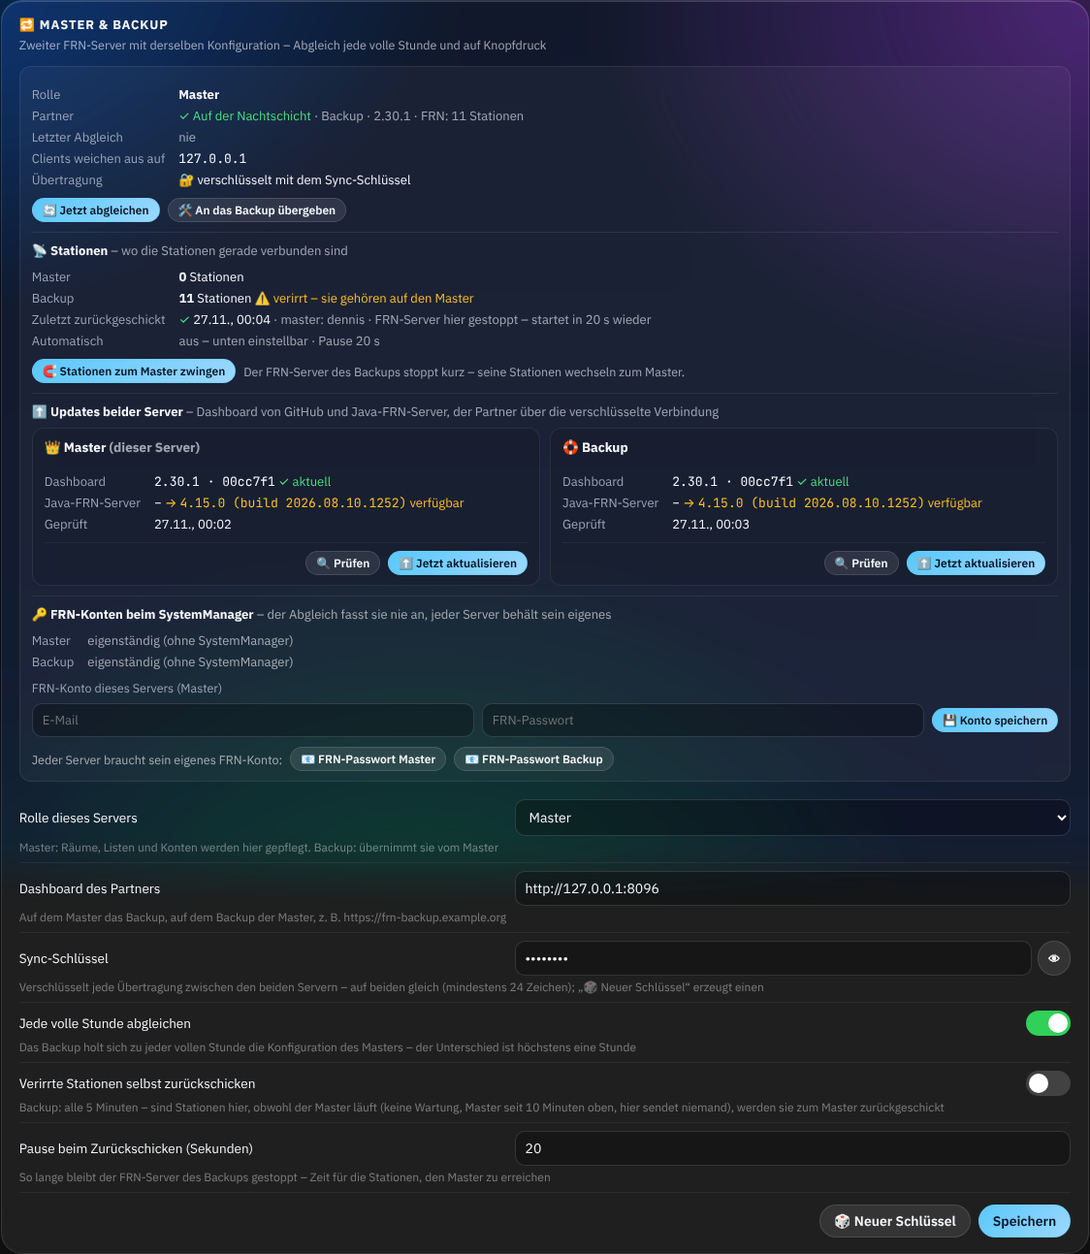
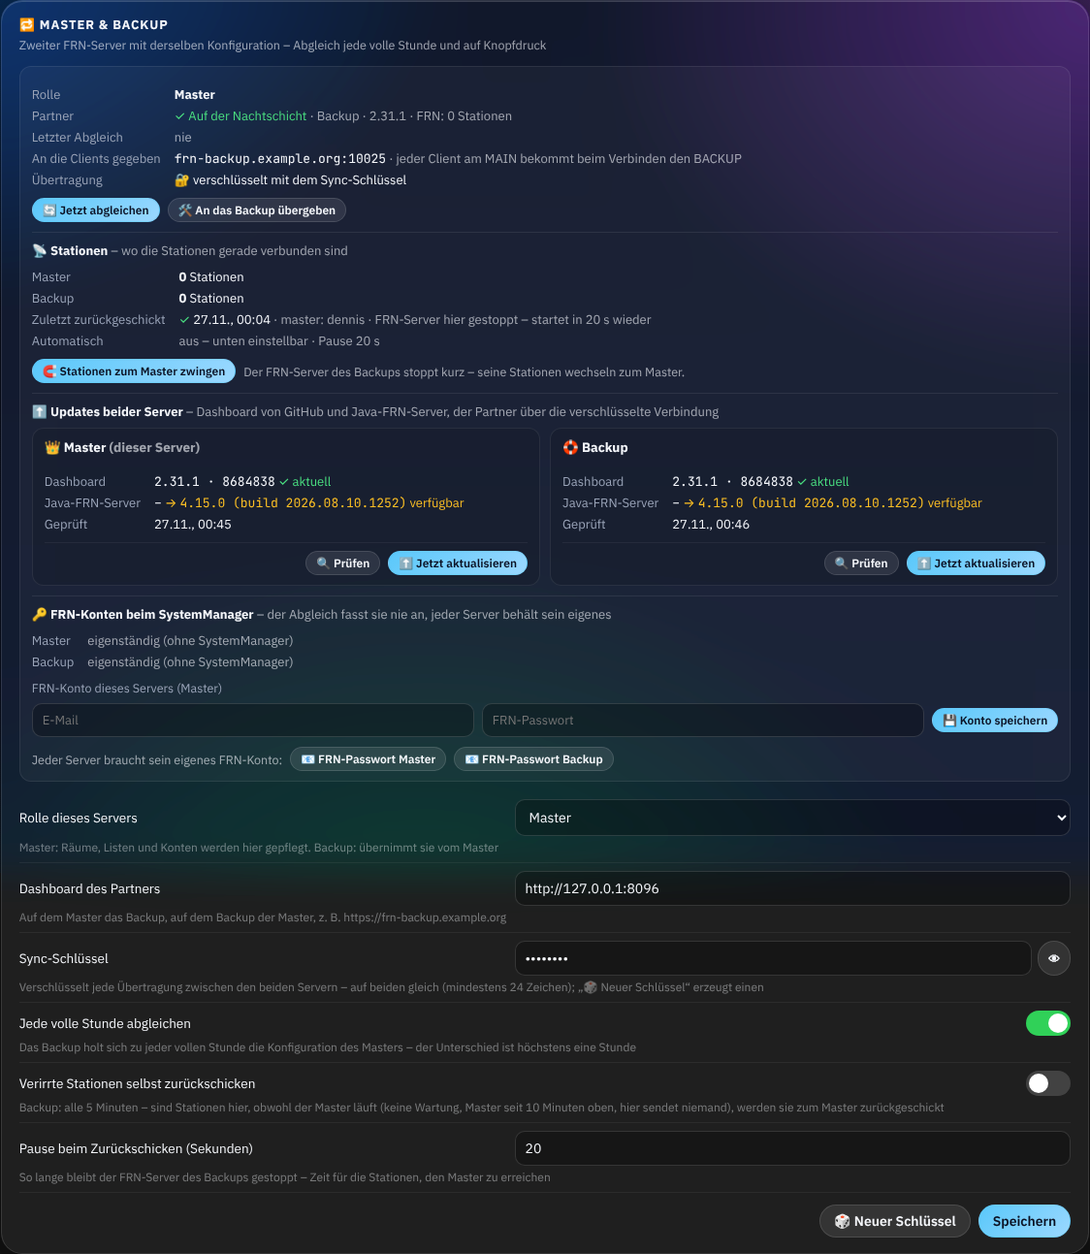
2.32.0: Client-Zeitlimit als Auswahl (Standard 300000 ms), MAIN/BACKUP beim Verbinden an die Clients
- frn.client_timeout: Auswahl 8 s … 60 min, Standard 300000 ms, max. 3600000; eigener Wert bleibt wählbar;
  alter Standard 8000 wird einmalig auf 300000 umgestellt
- BN/BP in der Login-Antwort: am MAIN bekommt jeder Client den BACKUP, am BACKUP den MAIN – jetzt mit echter
  FRN-Adresse und FRN-Port des Partners (über die verschlüsselte Verbindung gemeldet) statt Dashboard-Host + eigenem Port
- Kasten Master & Backup: Zeile „An die Clients gegeben“; /api/info mit derselben Adresse
- Doku, Bildschirmfoto, Tests, deutsche Texte

Claude-Session: https://claude.ai/code/session_01J5RG2o5o4J185zMLcq6Gc3

diff --git a/static/app.js b/static/app.js
@@ -875,6 +875,10 @@ function fieldHtml(f) {
     else if (f.kind === 'choice') input = `<select id="f_${f.key}" name="${f.key}">${f.choices.map(c => `<option value="${esc(c[0])}" ${String(c[0]) === String(f.value ?? '') ? 'selected' : ''}>${esc(c[1])}</option>`).join('')}</select>`;
     else if (f.kind === 'longtext') return `<div class="row wide">${lbl}<textarea id="f_${f.key}" name="${f.key}" spellcheck="false" style="min-height:70px">${esc(f.value)}</textarea>${help}</div>`;
     else if (f.kind === 'password') input = `<div class="pw-wrap"><input type="password" id="f_${f.key}" name="${f.key}" value="${esc(f.value)}" autocomplete="new-password"><button type="button" class="btn small" onclick="const i=this.previousElementSibling;i.type=i.type==='password'?'text':'password';if(i.value==='••••••••')i.value=''">👁</button></div>`;
+    else if (f.kind === 'int' && f.choices && f.choices.length) {     // presets, a value set by hand stays selectable
+        const opts = f.choices.some(c => String(c[0]) === String(f.value)) ? f.choices : [[f.value, `${f.value} (custom)`], ...f.choices];
+        input = `<select id="f_${f.key}" name="${f.key}">${opts.map(c => `<option value="${esc(c[0])}" ${String(c[0]) === String(f.value ?? '') ? 'selected' : ''}>${esc(c[1])}</option>`).join('')}</select>`;
+    }
     else if (f.kind === 'int') input = `<input type="number" id="f_${f.key}" name="${f.key}" value="${esc(f.value ?? '')}" ${f.min != null ? `min="${f.min}"` : ''} ${f.max != null ? `max="${f.max}"` : ''}>`;
     else input = `<input type="text" id="f_${f.key}" name="${f.key}" value="${esc(f.value ?? '')}">`;
     return `<div class="row">${lbl}${input}${help}</div>`;
@@ -928,7 +932,7 @@ async function loadCluster() {
             <span>Last sync</span><div>${lastTxt}</div>
             ${d.next ? `<span>Next sync</span><div>${fmtDate(d.next)}</div>` : ''}
             ${d.role === 'master' && d.last_export && d.last_export.time ? `<span>Last fetch by the backup</span><div>${fmtDate(d.last_export.time)}</div>` : ''}
-            <span>Clients switch to</span><div class="mono">${esc(d.backup_addr || '–')}</div>
+            <span>Pushed to the clients</span><div>${d.pushed && d.pushed.host ? `<span class="mono">${esc(d.pushed.host)}:${esc(d.pushed.port)}</span> <span class="dim">· <span>${d.role === 'master' ? 'every client on the MAIN gets the BACKUP at login' : 'every client on the BACKUP gets the MAIN at login'}</span>${d.pushed.source === 'manual' ? ' · <span>set by hand under FRN server</span>' : d.pushed.source === 'dashboard' ? ' · <span>FRN address of the partner not known yet – sync once</span>' : ''}</span>` : '–'}</div>
             <span>Transfer</span><div>🔐 <span>encrypted with the sync key</span></div>
         </div>
         <div class="actions" style="justify-content:flex-start">

diff --git a/static/i18n-app.js b/static/i18n-app.js
@@ -591,3 +591,16 @@ N8Kit.i18n.add({
             "FRN kann keine einzelne Station umziehen: Der FRN-Server des BACKUP stoppt kurz, damit wechseln alle dort verbundenen Stationen zum MAIN (ihre Ausweichadresse). Wer gerade auf dem BACKUP sendet, wird unterbrochen.",
     },
 });
+
+/* 2.32.0: client timeout presets, backup address pushed at login */
+N8Kit.i18n.add({
+    base: 'en',
+    de: {
+        "5 min (default)": "5 Min. (Standard)", "Pushed to the clients": "An die Clients gegeben",
+        "every client on the MAIN gets the BACKUP at login": "jeder Client am MAIN bekommt beim Verbinden den BACKUP",
+        "every client on the BACKUP gets the MAIN at login": "jeder Client am BACKUP bekommt beim Verbinden den MAIN",
+        "set by hand under FRN server": "von Hand unter FRN-Server gesetzt",
+        "FRN address of the partner not known yet – sync once": "FRN-Adresse des Partners noch unbekannt – einmal abgleichen",
+    },
+    rules: [[/^(\d+) \(custom\)$/, '$1 (eigener Wert)']],
+});

diff --git a/frnadn/app.py b/frnadn/app.py
@@ -48,7 +48,7 @@ from . import __version__, branding as brandstore, clientsw, links as linkstore,
 from .auth import ADMIN_ROLES, Auth, AuthError
 from .db import DB
 from .frn.acl import ACLStore
-from .frn.javasrv import JavaServer
+from .frn.javasrv import JavaServer, with_peer
 from .frn.logwatch import LogWatch
 from .frn.store import MAX_ROOMS, ROOM_COLUMNS, Store
 from .live import Live
@@ -241,10 +241,9 @@ def _cluster_public(s: Dict[str, Any]) -> Dict[str, Any]:
     role = s["cluster.role"]
     if role not in ("master", "backup"):
         return {"role": "off"}
-    host = s["frn.backup_host"] or cluster.peer_host(s["cluster.peer_url"])
-    port = int(s["frn.backup_port"] or s["frn.port"])
+    pb = pushed_backup()                               # the same address the clients get at login
     me = {"host": s["frn.address"] or "", "port": int(s["frn.port"])}
-    peer = {"host": host, "port": port} if host else None
+    peer = {"host": pb["host"], "port": pb["port"]} if pb["host"] else None
     return {"role": role, "master": me if role == "master" else peer, "backup": me if role == "backup" else peer,
             "maintenance": bool(_cluster_get("cluster.maintenance")),
             "peer_url": (s["cluster.peer_url"] or "").rstrip("/") + "/" if s["cluster.peer_url"] else ""}   # also in the link menu
@@ -1234,15 +1233,40 @@ def _me() -> Dict[str, Any]:
     return {"account": _account_tag(), "standalone": bool(s["frn.standalone"]), "role": s["cluster.role"],
             # zur Anzeige im Kasten Master & Backup (nur über die verschlüsselte Verbindung, nur für Admins sichtbar)
             "email": s["sysman.email"] or "", "password_set": bool(s["sysman.password"]), "host": s["frn.address"] or "",
-            "sysman": s["sysman.host"] or ""}
+            "sysman": s["sysman.host"] or "", "frn_port": int(s["frn.port"] or 0)}
 
 
 def _remember_peer(d: Dict[str, Any]) -> None:
     if isinstance(d, dict) and "account" in d:
-        _cluster_set("cluster.peer_account", {"tag": str(d.get("account") or ""), "standalone": bool(d.get("standalone")),
-                                              "email": str(d.get("email") or "")[:200], "password_set": bool(d.get("password_set")),
-                                              "host": str(d.get("host") or "")[:200], "role": str(d.get("role") or ""),
-                                              "time": time.time()})
+        old = _cluster_get("cluster.peer_account")
+        try:
+            port = int(d.get("frn_port") or (d.get("frn") or {}).get("port") or old.get("frn_port") or 0)
+        except (TypeError, ValueError):
+            port = 0
+        new = {"tag": str(d.get("account") or ""), "standalone": bool(d.get("standalone")),
+               "email": str(d.get("email") or "")[:200], "password_set": bool(d.get("password_set")),
+               "host": str(d.get("host") or "")[:200], "role": str(d.get("role") or ""), "frn_port": port, "time": time.time()}
+        _cluster_set("cluster.peer_account", new)
+        if (old.get("host"), old.get("frn_port")) != (new["host"], new["frn_port"]):
+            # the FRN address of the partner is what every client gets at login (BN/BP) – write it, restart when it fits
+            try:
+                if ctx.java.write_config():
+                    ctx.restart_needed = True
+            except OSError as e:
+                log.error("cannot write the FRN server configuration: %s", e)
+
+
+def pushed_backup() -> Dict[str, Any]:
+    """What the FRN server gives every client at login as its backup server (BN/BP in the login answer)."""
+    s = with_peer(ctx.settings)
+    if s["frn.backup_host"] and s["frn.backup_port"]:
+        return {"host": s["frn.backup_host"], "port": int(s["frn.backup_port"]), "source": "manual"}
+    if s["cluster.role"] in ("master", "backup"):
+        host = s["cluster.peer_frn_host"] or cluster.peer_host(s["cluster.peer_url"])
+        if host:
+            return {"host": host, "port": int(s["frn.backup_port"] or s["cluster.peer_frn_port"] or s["frn.port"]),
+                    "source": "partner" if s["cluster.peer_frn_host"] else "dashboard"}
+    return {"host": "", "port": 0, "source": ""}
 
 
 def account_conflict(tag: Optional[str] = None, standalone: Optional[bool] = None) -> bool:
@@ -1453,7 +1477,7 @@ async def cluster_status(request: Request):
                            "hourly": s["cluster.hourly"], "last": _cluster_get("cluster.last"),
                            "last_export": _cluster_get("cluster.last_export"), "maintenance": _cluster_get("cluster.maintenance"),
                            "next": cluster.next_full_hour() if s["cluster.role"] == "backup" and s["cluster.hourly"] else None,
-                           "frn": _frn_state(), "backup_addr": s["frn.backup_host"] or cluster.peer_host(s["cluster.peer_url"]),
+                           "frn": _frn_state(), "backup_addr": s["frn.backup_host"] or cluster.peer_host(s["cluster.peer_url"]), "pushed": pushed_backup(),
                            "peer": None, "last_return": _cluster_get("cluster.last_return"),
                            "return_pending": _cluster_get("cluster.return_pending"), "auto_return": s["cluster.auto_return"],
                            "return_pause": s["cluster.return_pause"]}
@@ -3136,6 +3160,12 @@ async def _startup() -> None:
         ctx = Ctx()
     ctx.auth.on_mail_change = _mail_users_changed      # ✉ new users / passwords → mailbox list of the mail server
     ctx.store.ensure_rooms()
+    if not ctx.db.kv_get("migr.client_timeout_300k"):   # 2.32.0: new default 5 min instead of 8 s
+        stored = ctx.db.q("SELECT value FROM settings WHERE key='frn.client_timeout'")
+        if stored and str(stored[0]["value"]).strip() in ("8000", "8000.0"):
+            ctx.settings.update({"frn.client_timeout": 300000}, "update 2.32.0")
+            log.info("Client-Zeitlimit: alter Standard 8000 ms → neuer Standard 300000 ms")
+        ctx.db.kv_set("migr.client_timeout_300k", "1")
     for error in ctx.acls.sync_from_files():
         log.warning("ACL import: %s", error)
     configured_links = linkstore.read(LINKS_FILE)

diff --git a/frnadn/frn/javasrv.py b/frnadn/frn/javasrv.py
@@ -17,6 +17,7 @@ import asyncio
 import io
 import logging
 import os
+import json
 import re
 import shutil
 import time
@@ -118,6 +119,24 @@ def _peer_host(url) -> str:
         return ""
 
 
+def with_peer(settings) -> Dict[str, Any]:
+    """Settings plus the FRN address of the partner (Master & Backup), as it reported it over the encrypted connection."""
+    s = dict(settings.all())
+    try:
+        p = json.loads(settings.db.kv_get("cluster.peer_account") or "{}")
+    except (ValueError, AttributeError):
+        p = {}
+    host = str(p.get("host") or "").strip()
+    if ":" in host and not host.startswith("["):
+        host = host.split(":", 1)[0]
+    s["cluster.peer_frn_host"] = host if re.fullmatch(r"[A-Za-z0-9.\-]{1,253}", host or "") else ""
+    try:
+        s["cluster.peer_frn_port"] = int(p.get("frn_port") or 0)
+    except (TypeError, ValueError):
+        s["cluster.peer_frn_port"] = 0
+    return s
+
+
 def build_properties(s: Dict[str, Any], rooms: List[Dict[str, Any]], home: Path) -> str:
     lines = ["# server.properties – written by frn_adn from its SQLite database.",
              "# Do not edit: change the settings in the admin portal; this file is overwritten.", ""]
@@ -141,10 +160,11 @@ def build_properties(s: Dict[str, Any], rooms: List[Dict[str, Any]], home: Path)
     if s["frn.backup_host"] and s["frn.backup_port"]:
         put("backup_server_addr", s["frn.backup_host"])
         put("backup_server_port", s["frn.backup_port"])
-    elif s.get("cluster.role") in ("master", "backup") and _peer_host(s.get("cluster.peer_url")):
-        # Master & Backup: the clients go to the partner if this server is gone (FRN does the failover itself)
-        put("backup_server_addr", _peer_host(s.get("cluster.peer_url")))
-        put("backup_server_port", s["frn.backup_port"] or s["frn.port"])
+    elif s.get("cluster.role") in ("master", "backup") and (s.get("cluster.peer_frn_host") or _peer_host(s.get("cluster.peer_url"))):
+        # Master & Backup: every client gets the partner at login (BN/BP) – on the MAIN the BACKUP, on the BACKUP the MAIN.
+        # FRN address and port are those the partner reports over the encrypted connection, else host of its dashboard + own port.
+        put("backup_server_addr", s.get("cluster.peer_frn_host") or _peer_host(s.get("cluster.peer_url")))
+        put("backup_server_port", s["frn.backup_port"] or s.get("cluster.peer_frn_port") or s["frn.port"])
     put("xmlFilesDir", str(home / "acl"))
     put("client_sotimeout", s["frn.client_timeout"])
     put("client_txtimeout", s["frn.tx_timeout"])
@@ -230,7 +250,7 @@ class JavaServer:
         """Write server.properties, log4j.xml and FRNPasswd.xml. True if server.properties or the password list changed."""
         (self.home / "acl").mkdir(parents=True, exist_ok=True)
         (self.home / "logs").mkdir(parents=True, exist_ok=True)
-        s = self.settings.all()
+        s = with_peer(self.settings)
         changed = _write(self.home / "server.properties", build_properties(s, self.store.rooms(), self.home), 0o600)
         _write(self.home / "log4j.xml", LOG4J, 0o644)
         pw = build_passwd(bool(s["frn.passwd_list"]), self.store.accounts(with_password=True))

diff --git a/tests/test_cluster.py b/tests/test_cluster.py
@@ -334,3 +334,44 @@ def test_station_window_main_backup(client, monkeypatch):
     assert client.get("/api/admin/cluster/where?call=DO1ABC").json()["on"] is None
     r = peer(client, "/api/cluster/hello")
     assert cluster.unseal(r.content, KEY)["data"]["callsigns"] == []
+
+
+def test_partner_frn_address_pushed_at_login(client):
+    """BN/BP in der Login-Antwort: am MAIN bekommt jeder Client den BACKUP, am BACKUP den MAIN – mit der echten FRN-Adresse."""
+    A = client.A
+    A.ctx.settings.update({"cluster.role": "master", "cluster.key": KEY, "cluster.peer_url": "https://dash-backup.example.org",
+                           "frn.port": 10024, "frn.backup_host": "", "frn.backup_port": 0}, "t")
+    A.ctx.java.write_config()
+    props = lambda: client.get("/api/admin/server/properties").json()["text"]  # noqa: E731
+    assert "backup_server_addr=dash-backup.example.org" in props() and "backup_server_port=10024" in props()
+    assert A.pushed_backup()["source"] == "dashboard"
+    # the partner reports its FRN address and port over the encrypted connection
+    A._remember_peer({"account": "x", "host": "frn-backup.example.org", "frn_port": 10025, "role": "backup"})
+    assert "backup_server_addr=frn-backup.example.org" in props() and "backup_server_port=10025" in props()
+    assert A.pushed_backup() == {"host": "frn-backup.example.org", "port": 10025, "source": "partner"}
+    assert client.get("/api/info").json()["cluster"]["backup"] == {"host": "frn-backup.example.org", "port": 10025}
+    assert client.get("/api/admin/cluster").json()["pushed"]["port"] == 10025
+    # set by hand under FRN server: that wins
+    A.ctx.settings.update({"frn.backup_host": "other.example.org", "frn.backup_port": 10030}, "t")
+    assert A.pushed_backup()["source"] == "manual"
+
+
+def test_client_timeout_presets_and_default(app_mod):
+    from frnadn.settings import BY_KEY
+    f = BY_KEY["frn.client_timeout"]
+    assert f.default == 300000 and 300000 in [c[0] for c in f.choices] and f.max == 3600000
+    s = app_mod.ctx.settings
+    s.update({"frn.client_timeout": 1800000}, "t")
+    assert s.get("frn.client_timeout") == 1800000
+    s.update({"frn.client_timeout": 45000}, "t")                    # a value set by hand stays allowed
+    assert s.get("frn.client_timeout") == 45000
+
+
+def test_old_client_timeout_default_migrated(app_mod):
+    A = app_mod
+    A.ctx.settings.update({"frn.client_timeout": 8000}, "t")
+    with TestClient(A.app):
+        assert A.ctx.settings.get("frn.client_timeout") == 300000
+    A.ctx.settings.update({"frn.client_timeout": 8000}, "t")         # only once – chosen again by hand, it stays
+    with TestClient(A.app):
+        assert A.ctx.settings.get("frn.client_timeout") == 8000

diff --git a/frnadn/settings.py b/frnadn/settings.py
@@ -54,8 +54,10 @@ FIELDS: List[Field] = [
           "Clients that ask for a room that does not exist land here"),
     Field("frn.backup_host", "server", "Backup server (backup_server_addr)", "text", "", "Sent to the clients: where to go if this server is down. Empty with Master & Backup = the partner"),
     Field("frn.backup_port", "server", "Backup server port", "int", 0, "0 = none", min=0, max=65535),
-    Field("frn.client_timeout", "server", "Client timeout (client_sotimeout, ms)", "int", 8000,
-          "A client that sends nothing for this long is disconnected", min=2000, max=120000),
+    Field("frn.client_timeout", "server", "Client timeout (client_sotimeout, ms)", "int", 300000,
+          "A client that sends nothing for this long is disconnected", min=2000, max=3600000,
+          choices=[(8000, "8 s"), (15000, "15 s"), (30000, "30 s"), (60000, "1 min"), (120000, "2 min"), (180000, "3 min"),
+                   (300000, "5 min (default)"), (600000, "10 min"), (900000, "15 min"), (1800000, "30 min"), (3600000, "60 min")]),
     Field("frn.tx_timeout", "server", "Voice timeout (client_txtimeout, ms)", "int", 1000,
           "No voice for this long ends a transmission; 0 = off", min=0, max=10000),
     Field("frn.skip_muted_crosslink", "server", "No voice to muted crosslinks", "bool", True),

diff --git a/frnadn/__init__.py b/frnadn/__init__.py
@@ -1,2 +1,2 @@
 """frn_adn – dashboard and admin area for the FRN server, design: Auf der NachtSchicht."""
-__version__ = "2.31.1"
+__version__ = "2.32.0"

diff --git a/docs/de/master-backup.md b/docs/de/master-backup.md
@@ -12,7 +12,7 @@ Konfiguration des Masters **zu jeder vollen Stunde** und auf Knopfdruck. Die bei
 
 | | |
 |---|---|
-| **Ausfall** | Erledigt **FRN selbst**: Jeder Server nennt seinen Clients eine Ausweichadresse (`backup_server_addr`). Ist der Server weg, verbinden sich die Clients von selbst dorthin. Mit gesetzter Rolle ist das automatisch der Partner (Host aus „Dashboard des Partners“, Port = eigener FRN-Port), solange unter *FRN-Server → Ausweichserver* nichts anderes steht. |
+| **Ausfall** | Erledigt **FRN selbst**: Jeder Server nennt seinen Clients eine Ausweichadresse (`backup_server_addr`). Ist der Server weg, verbinden sich die Clients von selbst dorthin. Mit gesetzter Rolle ist das automatisch der Partner – mit **seiner echten FRN-Adresse und seinem FRN-Port** (siehe „📌 MAIN und BACKUP an die Clients geben“), solange unter *FRN-Server → Ausweichserver* nichts anderes steht. |
 | **Abgleich** | Das Backup holt sich zu jeder vollen Stunde (ein paar Sekunden danach) die Konfiguration vom Master. **🔄 Jetzt abgleichen** geht auf beiden Servern: auf dem Backup holt es sofort, auf dem Master bittet es das Backup darum. |
 | **Wartung** | Von Hand auf dem Master: **🛠 An das Backup übergeben** und danach **↩ Vom Backup zurückholen** (siehe unten). |
 | **Verirrte Stationen** | **🧲 Stationen zum Master zwingen** – auf Master und Backup, jederzeit (siehe unten). Auf Wunsch auch automatisch. |
@@ -132,6 +132,28 @@ du gerade angemeldet bist. Jeder Block zeigt die Version des Dashboards (mit Com
 
 Damit das beim Partner geht, muss er selbst schon **2.31.0** oder neuer haben. Ältere Versionen meldet der Block: dann einmal dort
 unter *System → Update* (oder auf seiner Konsole `sudo ./scripts/update.sh`) aktualisieren – danach geht alles von hier aus.
+
+## 📌 MAIN und BACKUP an die Clients geben
+
+**Was FRN kann:** In der Antwort auf die Anmeldung eines Clients schickt der FRN-Server **genau eine** Ausweichadresse mit
+(`BN` = Adresse, `BP` = Port; in `server.properties` `backup_server_addr` / `backup_server_port`). Fällt der Server weg, verbindet
+sich der Client dorthin. Ein zweites Feld, eine Web-Adresse (URL) oder eine Liste kennt das Protokoll nicht.
+
+**So nutzt adn-frn-server das:** Jeder Client bekommt beim Verbinden **den jeweils anderen Server**:
+
+| Client verbunden mit | bekommt beim Verbinden |
+|---|---|
+| 👑 **MAIN** (Master) | 🛟 **BACKUP** – FRN-Adresse und Port des Backups |
+| 🛟 **BACKUP** | 👑 **MAIN** – FRN-Adresse und Port des Masters |
+
+Damit kennt jeder Client beide: den, mit dem er verbunden ist, und den anderen als Ausweichserver. Adresse und Port meldet der
+Partner selbst über die verschlüsselte Verbindung (bei jedem Abgleich und Statusabruf) – auch wenn sein FRN-Port ein anderer ist
+oder sein Dashboard unter einem anderen Namen läuft. Solange der Partner sich noch nicht gemeldet hat, gilt der Host aus
+„Dashboard des Partners“ mit dem eigenen FRN-Port. Ändert sich die Adresse, wird `server.properties` neu geschrieben; der Java-Server
+übernimmt sie beim nächsten Neustart (Hinweis „Jetzt neu starten“).
+
+Im Kasten zeigt die Zeile **An die Clients gegeben**, welche Adresse gerade mitgeschickt wird. Die FRN-Clients übernehmen sie beim
+nächsten Verbinden.
 
 ## 🔗 Partner im Link-Menü
 

diff --git a/CHANGELOG.md b/CHANGELOG.md
@@ -2,6 +2,31 @@
 
 Format: neueste Version zuerst. Die Versionsnummer steht in `frnadn/__init__.py`.
 
+## 2.32.0 – 2026-11-27
+
+### ⏱ Client-Zeitlimit als Auswahl (Standard 5 Minuten) · 📌 MAIN und BACKUP beim Verbinden an die Clients
+
+**Client-Zeitlimit (`client_sotimeout`)**
+- Unter *FRN-Server* jetzt eine **Auswahlliste**: 8 s, 15 s, 30 s, 1, 2, 3, **5 (Standard)**, 10, 15, 30 und 60 Minuten. Erlaubt sind
+  2000 ms bis 3 600 000 ms (bisher höchstens 120 000 ms); ein von Hand gesetzter anderer Wert bleibt als „eigener Wert“ wählbar.
+- **Neuer Standard: 300 000 ms (5 Minuten)** statt 8000 ms. Wer noch den alten Standard 8000 hatte, wird beim Update **einmalig**
+  auf 300 000 umgestellt (Protokoll: „update 2.32.0“); wer danach wieder 8 s wählt, behält das. Wird – wie alle FRN-Einstellungen –
+  vom Master auf das Backup abgeglichen. Der Java-Server übernimmt es beim nächsten Neustart.
+
+**MAIN und BACKUP an die Clients geben**
+- Geprüft: Das FRN-Protokoll gibt jedem Client in der Login-Antwort **genau eine** Ausweichadresse mit (`BN`/`BP`) – keine URL, kein
+  zweites Feld. Genau das nutzt adn-frn-server jetzt sauber für beide Richtungen: **Am MAIN bekommt jeder Client beim Verbinden den
+  BACKUP, am BACKUP den MAIN.**
+- Neu: Mitgeschickt wird die **echte FRN-Adresse und der FRN-Port des Partners**, die er über die verschlüsselte Verbindung meldet.
+  Bisher waren es der Host aus „Dashboard des Partners“ und der **eigene** Port – falsch, wenn der Partner einen anderen FRN-Port hat
+  oder sein Dashboard unter einem anderen Namen läuft. Ändert sich die Adresse, wird `server.properties` neu geschrieben (Hinweis
+  „Jetzt neu starten“).
+- Im Kasten *Master & Backup* zeigt die neue Zeile **An die Clients gegeben** Adresse und Port (statt „Clients weichen aus auf“).
+- `/api/info` (`cluster.master` / `cluster.backup`, gelesen z. B. von N8 Crosslink) nennt jetzt dieselbe, echte Adresse.
+- Eine Adresse unter *FRN-Server → Ausweichserver* hat weiterhin Vorrang.
+- Doku: [`docs/de/master-backup.md`](docs/de/master-backup.md) Abschnitt „📌 MAIN und BACKUP an die Clients geben“,
+  [`docs/de/konfiguration.md`](docs/de/konfiguration.md) aktualisiert; Tests für Adresse, Auswahl und Umstellung.
+
 ## 2.31.1 – 2026-11-27
 
 ### 👑 MAIN / 🛟 BACKUP im Stationsfenster – mit „Zum MAIN zwingen“

diff --git a/docs/de/konfiguration.md b/docs/de/konfiguration.md
@@ -40,9 +40,9 @@ Die ACL-Dateien werden beim Dashboard-Start in SQLite übernommen. Änderungen a
 | Port | `server_port` | 10024 | TCP-Port für die Clients |
 | Owner e-mail | `server_owner` | = Konto-E-Mail | **eine** Adresse, OWNER in allen Räumen |
 | Website | `website` | – | |
-| Backup server / port | `backup_server_addr` / `_port` | – | wird den Clients als Ausweichserver mitgeteilt |
+| Backup server / port | `backup_server_addr` / `_port` | – | wird jedem Client beim Verbinden als Ausweichserver mitgegeben (`BN`/`BP` in der Login-Antwort); leer bei Master & Backup = der Partner |
 | Default room | `default_net` | erster Raum nach net00 | für Clients mit unbekanntem Raum |
-| Client timeout | `client_sotimeout` | 8000 ms | |
+| Client timeout | `client_sotimeout` | 300000 ms (5 min) | Auswahlliste 8 s … 60 min; ein von Hand gesetzter Wert bleibt wählbar. Bis 2.31 war der Standard 8000 ms – dieser alte Standard wird beim Update einmalig auf 300000 ms umgestellt |
 | Voice timeout | `client_txtimeout` | 1000 ms | 0 = aus |
 | No voice to muted … | `voip_skip_muted_crosslink_clients`, `…_gateway_…`, `…_pconly_…` | ja / ja / nein | |
 | – | `xmlFilesDir` | `/var/lib/frnadn/frn/acl` | fest |
